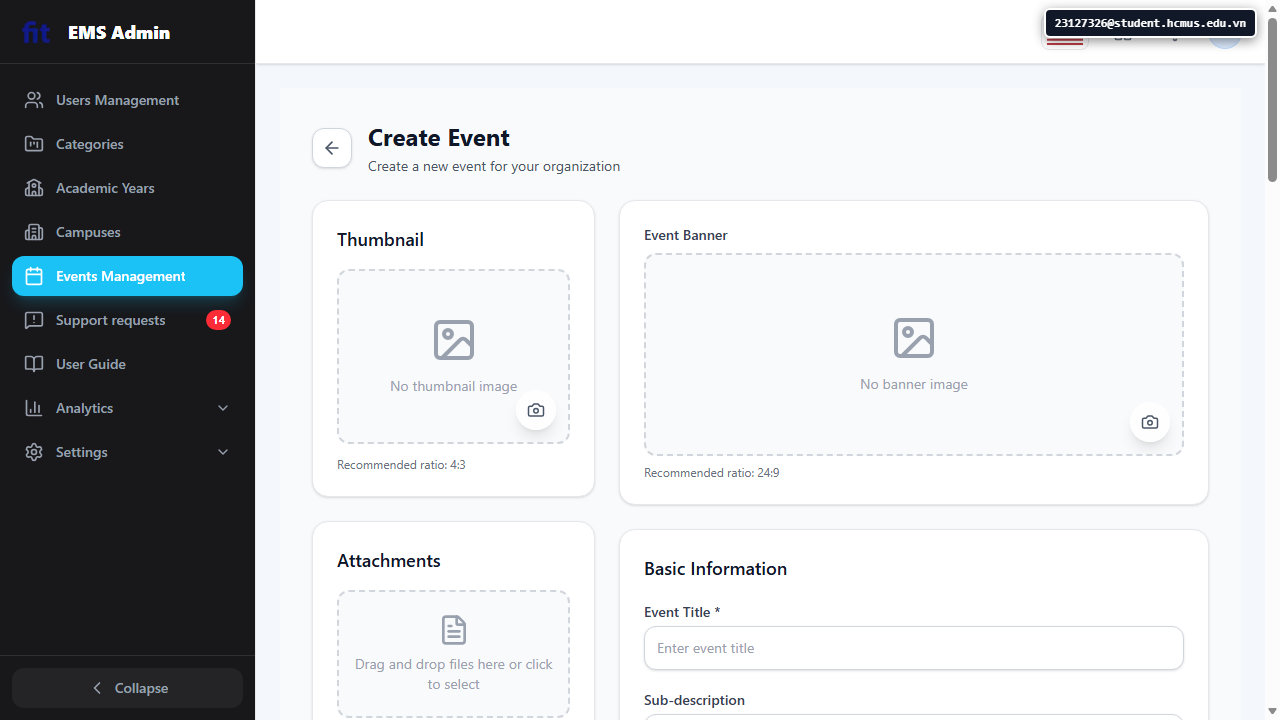
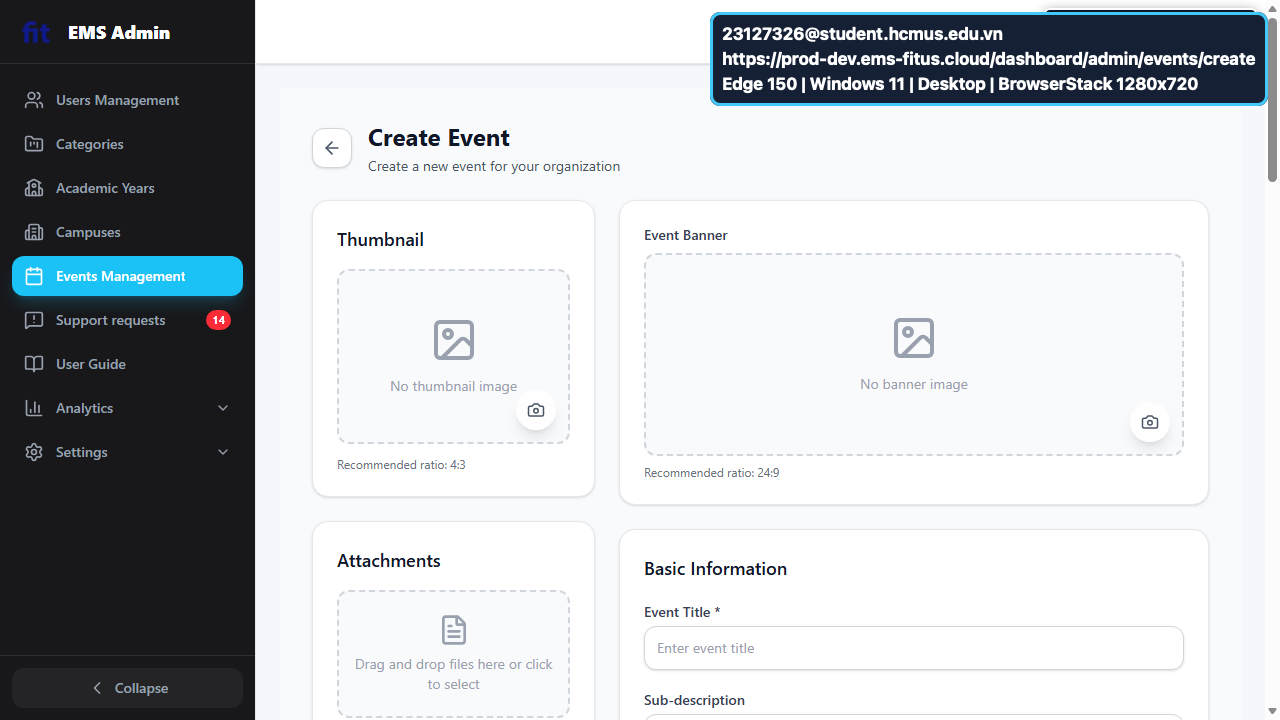
docs: add Task 3 evidence overlays

Changed region(s): [[0.5312, 0.0, 1.0, 0.1528]]

diff --git a/submission/README.md b/submission/README.md
@@ -68,7 +68,7 @@
 - [ ] Screenshot Failed items là ảnh thật từ EMS.
 - [ ] Có 5 participant thật, contact đã che giữa.
 - [ ] Có session notes, SUS/UEQ-S responses, metrics table và recording nếu có.
-- [x] Có 15 screenshot cross-platform cho mỗi cell, overlay chỉ có `23127326@student.hcmus.edu.vn`; URL/browser/OS/device được đối soát trong matrix và tên file.
+- [x] Có 15 screenshot cross-platform cho mỗi cell; overlay hiển thị `23127326@student.hcmus.edu.vn`, URL EMS và browser/OS/device.
 - [ ] Mọi finding đã submit Google Form và có timestamp trong log.
 - [ ] AI Audit Report ghi đủ tool/model/date-time/prompt/output.
 - [ ] AI Critique dài 200-300 words.
